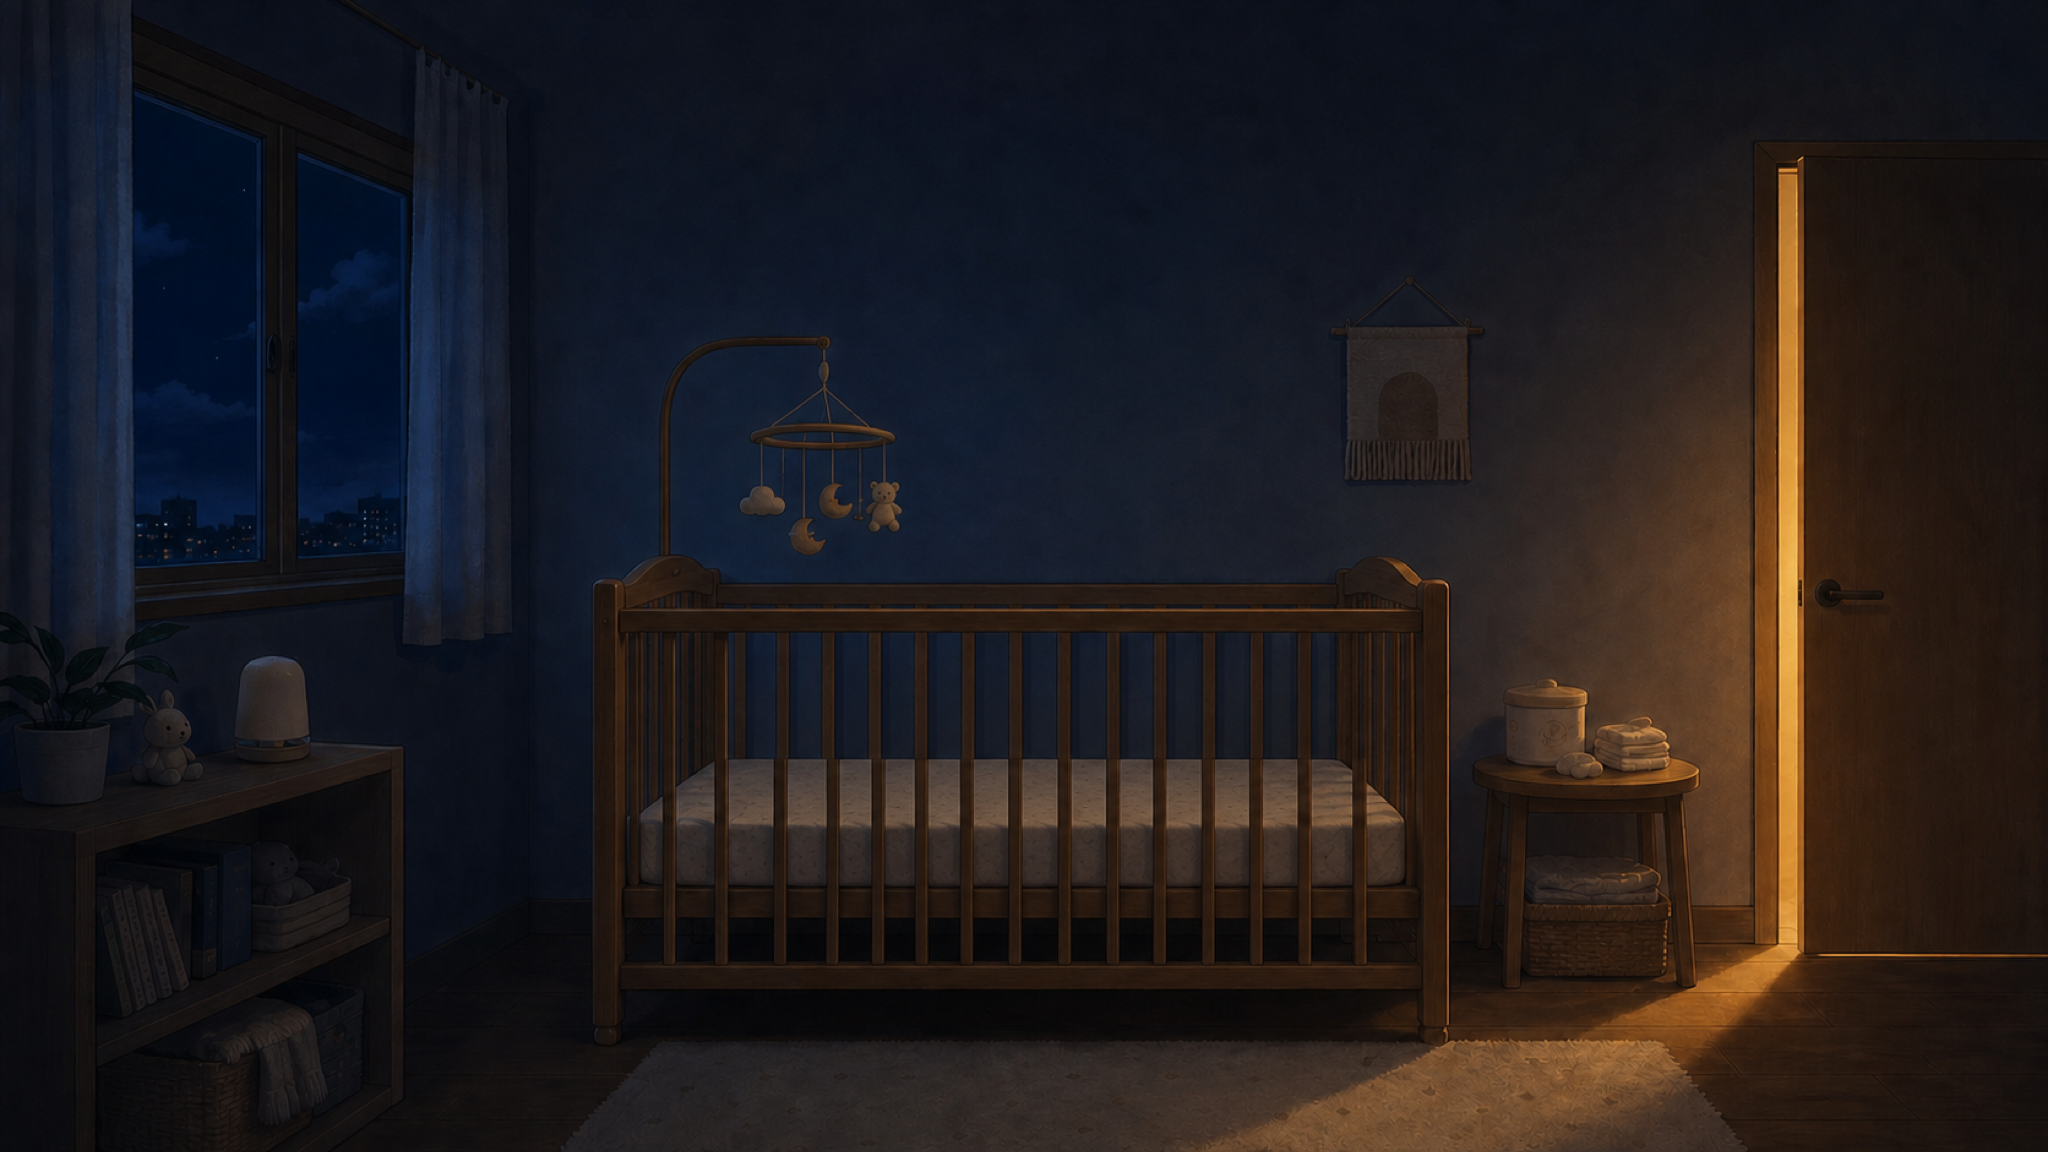
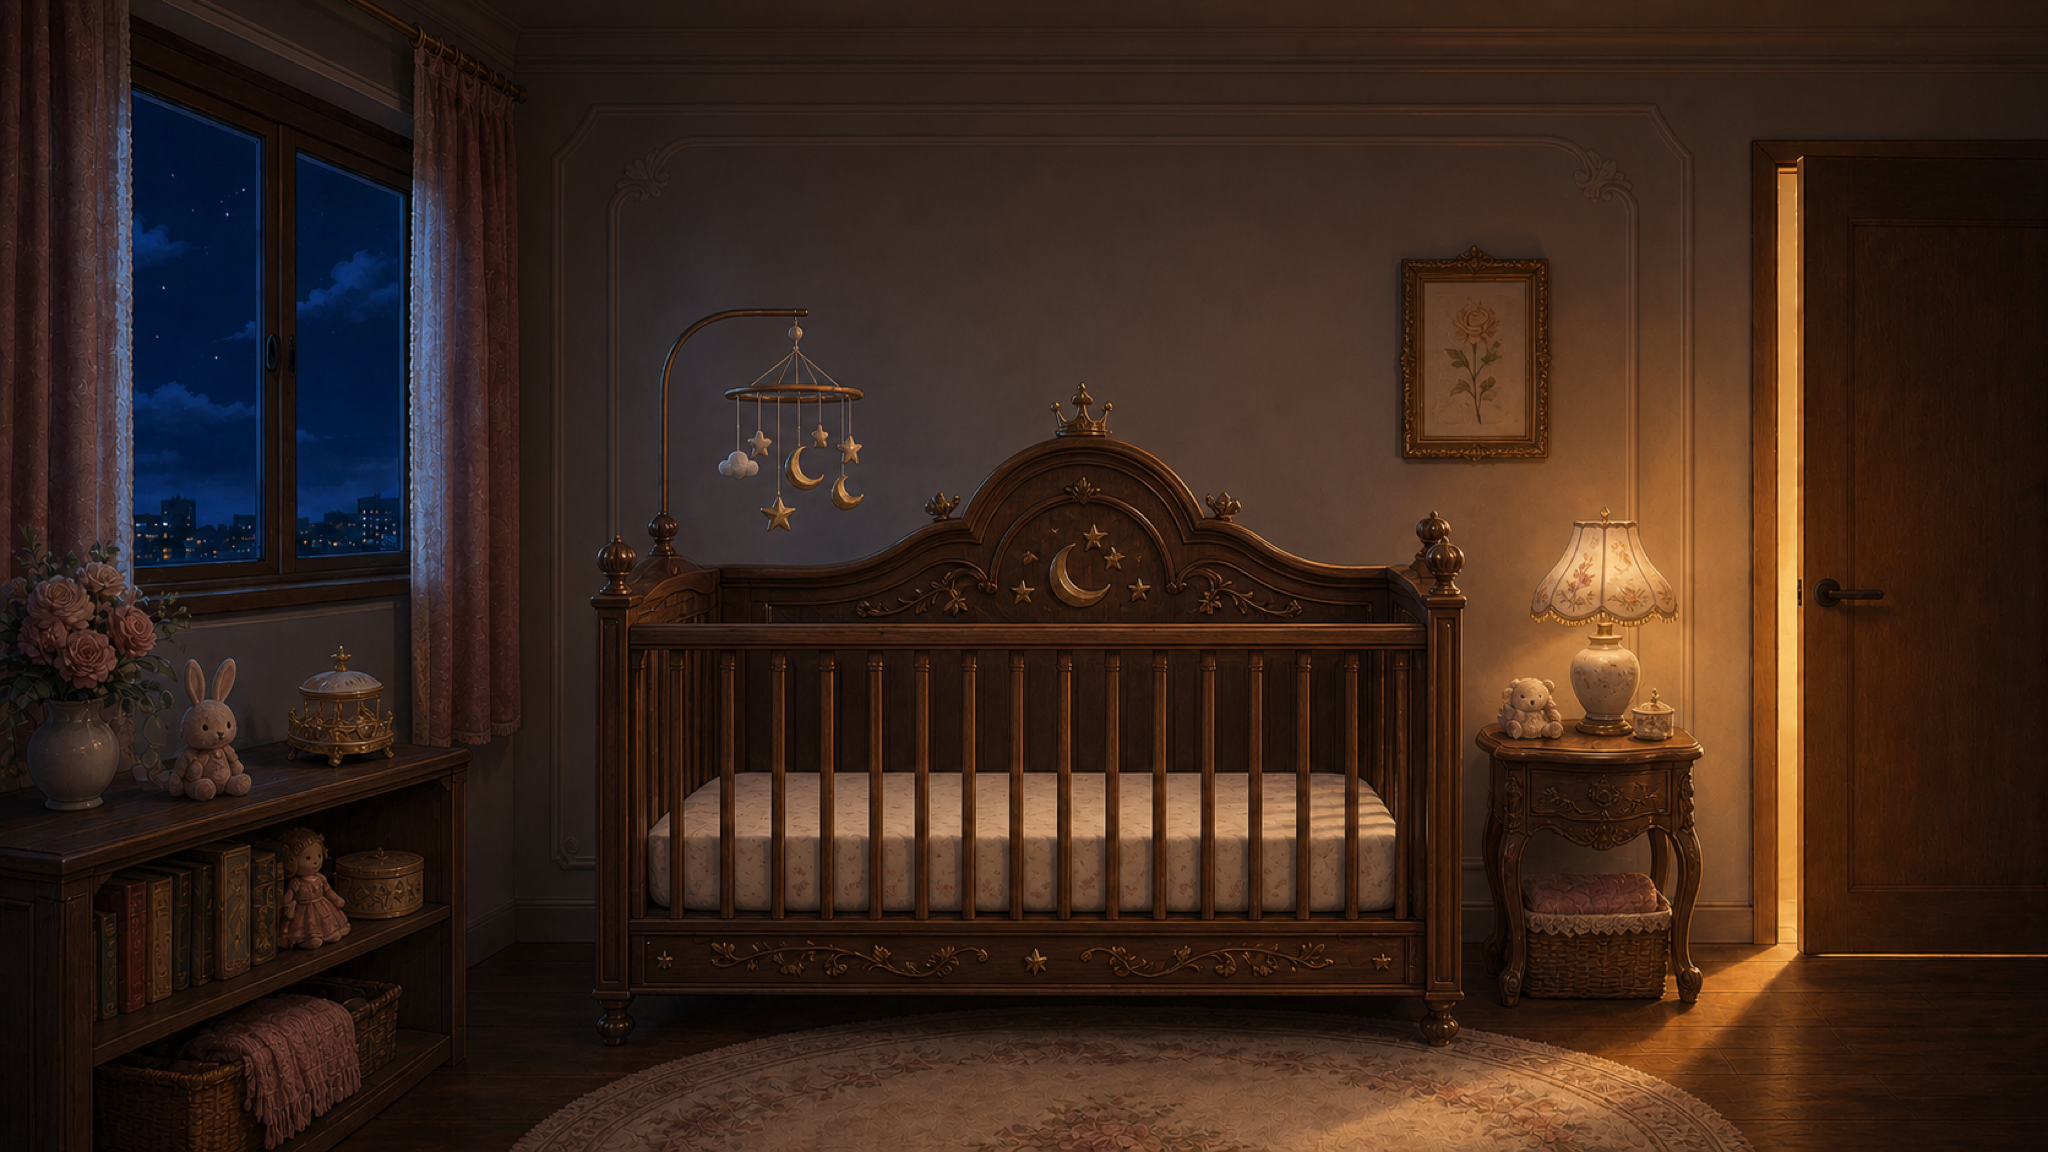
Polish princess nursery and collectible item UI

diff --git a/Assets/Scripts/App/GameBootstrap.cs b/Assets/Scripts/App/GameBootstrap.cs
@@ -45,6 +45,9 @@ namespace NotANap.App
         private GUIStyle _tabSelected;
         private Texture2D _speechBubble;
         private Texture2D _lockIcon;
+        private Texture2D _itemGlow;
+        private Texture2D _itemShadow;
+        private ItemId? _setupFocus;
 
         private System.Random _ambientRandom;
         private int _ambientFrame;
@@ -111,6 +114,8 @@ namespace NotANap.App
             _tabButton = ButtonStyle(18, new Color(0.07f, 0.11f, 0.17f, 0.68f), new Color(0.28f, 0.36f, 0.45f, 0.9f), new Color(0.82f, 0.85f, 0.88f));
             _tabSelected = ButtonStyle(18, new Color(0.78f, 0.54f, 0.23f, 0.98f), new Color(0.95f, 0.76f, 0.44f), Color.white);
             _speechBubble = RoundedTexture(new Color(0.97f, 0.94f, 0.87f, 0.98f), 14);
+            _itemGlow = RoundedTexture(new Color(1f, 0.69f, 0.27f, 0.2f), 48);
+            _itemShadow = RoundedTexture(new Color(0f, 0f, 0f, 0.44f), 28);
         }
 
         private GUIStyle LabelStyle(int size, FontStyle weight, Color color, TextAnchor align = TextAnchor.UpperLeft)
@@ -301,7 +306,7 @@ namespace NotANap.App
         {
             var vm = _flow.BuildV2Setup();
             if (_portrait) { DrawPortraitSetup(vm); return; }
-            Fill(new Rect(0, 0, LandscapeWidth, LandscapeHeight), new Color(0.015f, 0.035f, 0.065f, 0.78f));
+            Fill(new Rect(0, 0, LandscapeWidth, LandscapeHeight), new Color(0.015f, 0.035f, 0.065f, 0.46f));
             GUI.Label(new Rect(90, 64, 900, 56), $"{vm.NightLabel}  ·  밤 준비", _display);
             GUI.Label(new Rect(1450, 75, 360, 44), $"가져갈 물건  {vm.SelectedCount} / {vm.Slots}", Right(_headline));
             if (vm.IsFirstNight)
@@ -309,41 +314,133 @@ namespace NotANap.App
             else
                 GUI.Label(new Rect(92, 130, 1500, 40), $"“{vm.TemperamentHint}” · {vm.CaregiverStyleName}", _body);
 
-            const float cardW = 400f;
-            const float cardH = 270f;
+            const float displayWidth = 400f;
+            const float gap = 48f;
             for (int i = 0; i < vm.Cards.Count; i++)
             {
                 var card = vm.Cards[i];
-                int col = i % 4;
-                int row = i / 4;
-                var rect = new Rect(90 + col * 435, 340 + row * 290, cardW, cardH);
-                DrawItemCard(rect, card, vm.SelectedCount, vm.Slots);
+                var rect = new Rect(88 + i * (displayWidth + gap), 330, displayWidth, 390);
+                DrawCollectibleItem(rect, card, false);
             }
-            GUI.Label(new Rect(90, 735, 900, 34), "오늘 밤에 실제로 사용할 물건만 고르세요.", _caption);
+
+            var focused = FocusedSetupCard(vm);
+            if (focused != null)
+                DrawSetupItemDetail(new Rect(130, 748, 1120, 174), focused, false);
+            GUI.Label(new Rect(130, 930, 940, 34), "소품을 눌러 오늘 밤의 진열대에 올리세요.", _caption);
 
             var oldEnabled = GUI.enabled;
             GUI.enabled = vm.CanStart;
             string next = vm.CanStart ? "이 준비로 밤 시작하기  →" : $"물건을 {vm.Slots}개 골라주세요";
-            if (GUI.Button(new Rect(1300, 900, 520, 82), next, _button)) _flow.ConfirmV2Setup();
+            if (GUI.Button(new Rect(1300, 900, 520, 82), next, _button))
+            {
+                _audio?.PlayUi();
+                _flow.ConfirmV2Setup();
+            }
             GUI.enabled = oldEnabled;
         }
 
-        private void DrawItemCard(Rect rect, ItemCardViewModel card, int selected, int slots)
+        private void DrawCollectibleItem(Rect area, ItemCardViewModel card, bool portrait)
         {
-            Color panel = card.Selected ? new Color(0.32f, 0.23f, 0.12f, 0.98f) : new Color(0.055f, 0.09f, 0.14f, 0.96f);
-            if (card.Disabled) panel.a = 0.52f;
-            Fill(rect, panel);
-            Fill(new Rect(rect.x, rect.y, card.Selected ? 7 : 2, rect.height), card.Selected ? new Color(0.92f, 0.7f, 0.36f) : new Color(0.2f, 0.28f, 0.36f));
-            DrawItemArt(card.Id, new Rect(rect.x + 18, rect.y + 24, 104, 104));
-            GUI.Label(new Rect(rect.x + 146, rect.y + 20, rect.width - 166, 52), card.Name, _headline);
-            GUI.Label(new Rect(rect.x + 146, rect.y + 72, rect.width - 166, 122), card.Desc, _body);
-            Fill(new Rect(rect.x + 18, rect.y + rect.height - 88, rect.width - 36, 1),
-                new Color(0.45f, 0.5f, 0.56f, 0.3f));
-            GUI.Label(new Rect(rect.x + 20, rect.y + rect.height - 80, rect.width - 40, 76), $"주의  {card.Side}", _caption);
+            bool hovered = area.Contains(Event.current.mousePosition);
+            if (hovered) _setupFocus = card.Id;
+            float artSize = portrait ? 270f : 276f;
+            float lift = card.Selected
+                ? 15f + Mathf.Sin(Time.unscaledTime * 4.5f) * 3f
+                : hovered && !card.Disabled ? 9f : 0f;
+            float centerX = area.x + area.width * 0.5f;
+            var artRect = new Rect(centerX - artSize * 0.5f, area.y + 30f - lift, artSize, artSize);
+            var shadowRect = new Rect(centerX - artSize * 0.34f, area.y + 276f, artSize * 0.68f, portrait ? 34f : 28f);
+
+            if (card.Selected)
+                GUI.DrawTexture(new Rect(centerX - artSize * 0.55f, area.y + 5f - lift,
+                    artSize * 1.1f, artSize * 1.1f), _itemGlow, ScaleMode.StretchToFill, true);
+            GUI.DrawTexture(shadowRect, _itemShadow, ScaleMode.StretchToFill, true);
+
+            Color oldColor = GUI.color;
+            if (card.Disabled) GUI.color = new Color(0.62f, 0.65f, 0.69f, 0.52f);
+            else if (hovered || card.Selected) GUI.color = new Color(1.08f, 1.04f, 0.96f);
+            DrawItemArt(card.Id, artRect);
+            GUI.color = oldColor;
+
+            if (card.Selected)
+            {
+                DrawItemSparkle(area.x + 48f, area.y + 58f, portrait ? 18f : 15f);
+                DrawItemSparkle(area.xMax - 52f, area.y + 136f, portrait ? 14f : 12f);
+            }
+
+            var nameStyle = new GUIStyle(_headline)
+            {
+                alignment = TextAnchor.MiddleCenter,
+                fontSize = portrait ? 32 : 30,
+                normal = { textColor = card.Selected
+                    ? new Color(1f, 0.83f, 0.5f)
+                    : new Color(0.96f, 0.93f, 0.86f) }
+            };
+            GUI.Label(new Rect(area.x, area.y + 306, area.width, 48), card.Name, nameStyle);
+            if (card.Selected)
+            {
+                var badge = new GUIStyle(_caption)
+                {
+                    alignment = TextAnchor.MiddleCenter,
+                    normal = { textColor = new Color(1f, 0.78f, 0.36f) }
+                };
+                GUI.Label(new Rect(area.x, area.y + 352, area.width, 30), "✓ 오늘 밤에 챙김", badge);
+            }
+            else if (card.Disabled)
+                GUI.Label(new Rect(area.x, area.y + 352, area.width, 30), "선택 칸이 가득 찼어요", Centered(_caption));
+            else if (hovered)
+                GUI.Label(new Rect(area.x, area.y + 352, area.width, 30), "눌러서 챙기기", Centered(_caption));
+
             var oldEnabled = GUI.enabled;
             GUI.enabled = !card.Disabled;
-            if (GUI.Button(rect, GUIContent.none, GUIStyle.none)) _flow.ToggleV2Item(card.Id);
+            if (GUI.Button(area, GUIContent.none, GUIStyle.none))
+            {
+                _setupFocus = card.Id;
+                _audio?.PlayUi();
+                _flow.ToggleV2Item(card.Id);
+            }
             GUI.enabled = oldEnabled;
+        }
+
+        private static void DrawItemSparkle(float x, float y, float size)
+        {
+            Color color = new Color(1f, 0.76f, 0.28f, 0.92f);
+            Fill(new Rect(x - size * 0.12f, y - size, size * 0.24f, size * 2f), color);
+            Fill(new Rect(x - size, y - size * 0.12f, size * 2f, size * 0.24f), color);
+            Fill(new Rect(x - size * 0.42f, y - size * 0.42f, size * 0.84f, size * 0.84f),
+                new Color(1f, 0.9f, 0.58f, 0.82f));
+        }
+
+        private ItemCardViewModel FocusedSetupCard(SetupViewModel vm)
+        {
+            ItemCardViewModel first = null;
+            ItemCardViewModel selected = null;
+            foreach (var card in vm.Cards)
+            {
+                if (first == null) first = card;
+                if (card.Selected && selected == null) selected = card;
+                if (_setupFocus.HasValue && card.Id == _setupFocus.Value) return card;
+            }
+            return selected ?? first;
+        }
+
+        private void DrawSetupItemDetail(Rect rect, ItemCardViewModel card, bool portrait)
+        {
+            Fill(rect, new Color(0.025f, 0.05f, 0.08f, 0.78f));
+            Fill(new Rect(rect.x, rect.y, 6f, rect.height), card.Selected
+                ? new Color(1f, 0.72f, 0.32f)
+                : new Color(0.48f, 0.57f, 0.66f));
+            float inset = portrait ? 34f : 42f;
+            GUI.Label(new Rect(rect.x + inset, rect.y + 18, rect.width - inset * 2f, 42),
+                card.Selected ? $"{card.Name} · 오늘 밤에 챙겼어요" : card.Name, _headline);
+            GUI.Label(new Rect(rect.x + inset, rect.y + 68, rect.width - inset * 2f, 50),
+                card.Desc, _body);
+            var warning = new GUIStyle(_caption)
+            {
+                normal = { textColor = new Color(0.94f, 0.76f, 0.52f) }
+            };
+            GUI.Label(new Rect(rect.x + inset, rect.y + 124, rect.width - inset * 2f, rect.height - 128),
+                $"기억할 점 · {card.Side}", warning);
         }
 
         private void LoadItemArt(ItemId id, string resourceName)
@@ -1153,14 +1250,14 @@ namespace NotANap.App
         {
             if (portrait)
             {
-                GUI.Label(new Rect(48, 145, 984, 35), "나는 보통 · 정답 없는 보호자 성향", _caption);
-                DrawCareStyleButton(new Rect(48, 188, 305, 56), "바로 반응", CaregiverStyle.Responsive, vm.CaregiverStyle);
-                DrawCareStyleButton(new Rect(388, 188, 305, 56), "잠시 관찰", CaregiverStyle.Observant, vm.CaregiverStyle);
-                DrawCareStyleButton(new Rect(727, 188, 305, 56), "차례로 확인", CaregiverStyle.Methodical, vm.CaregiverStyle);
-                GUI.Label(new Rect(48, 258, 984, 35), "아기 반응 경향 · 의학적 진단이 아닙니다", _caption);
-                DrawTemperamentButton(new Rect(48, 300, 305, 50), "반응이 잔잔함", Temperament.Soft, vm);
-                DrawTemperamentButton(new Rect(388, 300, 305, 50), "자극에 민감", Temperament.Sensitive, vm);
-                DrawTemperamentButton(new Rect(727, 300, 305, 50), "배고픔 신호 빠름", Temperament.Hungry, vm);
+                GUI.Label(new Rect(48, 145, 984, 42), "나는 보통 · 정답 없는 보호자 성향", _caption);
+                DrawCareStyleButton(new Rect(48, 190, 305, 56), "바로 반응", CaregiverStyle.Responsive, vm.CaregiverStyle);
+                DrawCareStyleButton(new Rect(388, 190, 305, 56), "잠시 관찰", CaregiverStyle.Observant, vm.CaregiverStyle);
+                DrawCareStyleButton(new Rect(727, 190, 305, 56), "차례로 확인", CaregiverStyle.Methodical, vm.CaregiverStyle);
+                GUI.Label(new Rect(48, 252, 984, 42), "아기 반응 경향 · 의학적 진단이 아닙니다", _caption);
+                DrawTemperamentButton(new Rect(48, 298, 305, 50), "반응이 잔잔함", Temperament.Soft, vm);
+                DrawTemperamentButton(new Rect(388, 298, 305, 50), "자극에 민감", Temperament.Sensitive, vm);
+                DrawTemperamentButton(new Rect(727, 298, 305, 50), "배고픔 신호 빠름", Temperament.Hungry, vm);
                 return;
             }
 
@@ -1194,36 +1291,31 @@ namespace NotANap.App
 
         private void DrawPortraitSetup(SetupViewModel vm)
         {
-            Fill(new Rect(0, 0, PortraitWidth, PortraitHeight), new Color(0.015f, 0.035f, 0.065f, 0.86f));
+            Fill(new Rect(0, 0, PortraitWidth, PortraitHeight), new Color(0.015f, 0.035f, 0.065f, 0.52f));
             GUI.Label(new Rect(48, 55, 750, 74), $"{vm.NightLabel} · 밤 준비", _display);
             if (vm.IsFirstNight) DrawCarePairSetup(vm, true);
             else GUI.Label(new Rect(48, 145, 984, 100), $"“{vm.TemperamentHint}” · {vm.CaregiverStyleName}", _body);
             GUI.Label(new Rect(48, 365, 984, 50), $"가져갈 물건  {vm.SelectedCount} / {vm.Slots}", _headline);
-            const float cardW = 474f;
-            const float cardH = 420f;
             for (int i = 0; i < vm.Cards.Count; i++)
             {
                 var card = vm.Cards[i];
                 int col = i % 2;
                 int row = i / 2;
-                var rect = new Rect(48 + col * 510, 425 + row * 405, cardW, 380);
-                Color panel = card.Selected ? new Color(0.32f, 0.23f, 0.12f, 0.98f) : new Color(0.055f, 0.09f, 0.14f, 0.96f);
-                if (card.Disabled) panel.a = 0.52f;
-                Fill(rect, panel);
-                Fill(new Rect(rect.x, rect.y, card.Selected ? 9 : 3, rect.height), card.Selected ? new Color(0.92f, 0.7f, 0.36f) : new Color(0.2f, 0.28f, 0.36f));
-                DrawItemArt(card.Id, new Rect(rect.x + 24, rect.y + 28, 132, 132));
-                GUI.Label(new Rect(rect.x + 176, rect.y + 30, 274, 66), card.Name, _headline);
-                GUI.Label(new Rect(rect.x + 176, rect.y + 108, 274, 142), card.Desc, _body);
-                GUI.Label(new Rect(rect.x + 24, rect.y + 270, 426, 90), $"주의 · {card.Side}", _caption);
-                var oldEnabled = GUI.enabled;
-                GUI.enabled = !card.Disabled;
-                if (GUI.Button(rect, GUIContent.none, GUIStyle.none)) _flow.ToggleV2Item(card.Id);
-                GUI.enabled = oldEnabled;
+                var rect = new Rect(48 + col * 510, 425 + row * 390, 474, 370);
+                DrawCollectibleItem(rect, card, true);
             }
-            GUI.Label(new Rect(48, 1250, 984, 55), "오늘 밤에 실제로 사용할 물건만 고르세요.", _caption);
+
+            var focused = FocusedSetupCard(vm);
+            if (focused != null)
+                DrawSetupItemDetail(new Rect(48, 1218, 984, 230), focused, true);
+            GUI.Label(new Rect(48, 1470, 984, 55), "소품을 눌러 오늘 밤의 진열대에 올리세요.", _caption);
             var previous = GUI.enabled;
             GUI.enabled = vm.CanStart;
-            if (GUI.Button(new Rect(100, 1370, 880, 120), vm.CanStart ? "밤 시작하기 →" : $"물건을 {vm.Slots}개 골라주세요", _button)) _flow.ConfirmV2Setup();
+            if (GUI.Button(new Rect(100, 1710, 880, 120), vm.CanStart ? "밤 시작하기 →" : $"물건을 {vm.Slots}개 골라주세요", _button))
+            {
+                _audio?.PlayUi();
+                _flow.ConfirmV2Setup();
+            }
             GUI.enabled = previous;
         }
 

diff --git a/docs/assets.md b/docs/assets.md
@@ -4,7 +4,7 @@
 |---|---|---|---|---|
 | `Assets/Resources/Fonts/NotoSansKR.ttf` | 한국어 UI 폰트 | Google Fonts, Noto Sans KR | SIL Open Font License 1.1 | 원문은 같은 폴더의 `OFL.txt` |
 | `Reference/nursery-night-original.png` | 최초 16:9 밤 침실 배경 보관본 | OpenAI 내장 이미지 생성 도구로 2026-07-21 생성 | 프로젝트 사용을 위한 사용자 소유 생성물 | 빌드 중복 포함을 막기 위해 Unity `Resources` 밖에 보관 |
-| `Assets/Resources/Art/nursery-night-empty.png` | 캐릭터 분리용 빈 침실 배경 | 기존 생성 배경을 OpenAI 내장 이미지 생성 도구로 편집 | 프로젝트 사용을 위한 사용자 소유 생성물 | 아기·베개·느슨한 이불 제거, 빈 매트리스 복원 |
+| `Assets/Resources/Art/nursery-night-empty.png` | 캐릭터 분리용 공주풍 빈 침실 배경 | 기존 생성 배경을 OpenAI 내장 이미지 생성 도구로 2026-07-26 재편집 | 프로젝트 사용을 위한 사용자 소유 생성물 | 고목 월넛 조각 침대·달과 별 장식·달빛/문틈/스탠드 3점 조명, 아기·베개·느슨한 이불 없는 빈 매트리스 |
 | `Assets/Resources/Art/Baby/*.png` | 아기 상태 캐릭터 12종 | OpenAI 내장 이미지 생성 도구로 2026-07-21 생성 | 프로젝트 사용을 위한 사용자 소유 생성물 | 동일한 동양 아기, 부드러운 큰 웨이브와 C자 애교머리, 크로마키 제거 투명 PNG |
 | `Assets/Resources/Art/Baby/Animated/*.png` | 아기 프레임 애니메이션 12종 | 기존 아기 캐릭터를 OpenAI 내장 이미지 생성 도구로 확장 | 프로젝트 사용을 위한 사용자 소유 생성물 | 깨어 있음·보챔·수면 각 4프레임, 눈·입·손발 동작 포함 |
 | `Assets/Resources/Art/Items/*.png` | 밤 준비·플레이 HUD 아이템 4종 | OpenAI 내장 이미지 생성 도구로 2026-07-26 생성 | 프로젝트 사용을 위한 사용자 소유 생성물 | 아기띠·쪽쪽이·백색소음기·베이비 모니터, 크로마키 제거 투명 PNG |
@@ -12,9 +12,11 @@
 
 ## `nursery-night.png` 생성 프롬프트 요약
 
-조용한 한국 아파트의 밤 침실, 중앙의 아기 침대와 잠든 아기, 오른쪽 문틈의 따뜻한 불빛,
-왼쪽 창문의 짙은 남색 새벽 하늘을 성숙한 그림책풍 2D 게임 배경으로 제작했다. 16:9 HUD가
-겹쳐질 수 있도록 상단과 하단 모서리에 어두운 여백을 두고 텍스트·로고·UI 요소는 제외했다.
+조용한 밤 침실의 기존 16:9 구도와 좌우 창문·문 위치를 보존하고, 중앙 침대를 달과 별 조각,
+황동 포인트, 깊은 나뭇결이 보이는 고풍스러운 고목 월넛 크립으로 재편집했다. 왼쪽의 짙은
+남색 달빛, 오른쪽 문틈의 앰버 조명, 침대 옆 스탠드의 따뜻한 실내광을 함께 사용했다.
+별도 아기 스프라이트와 HUD가 겹칠 수 있도록 매트리스와 중앙 공간을 비우고, 안전하지 않은
+캐노피·베개·느슨한 침구와 텍스트·로고·UI 요소는 제외했다.
 
 ## 아기 캐릭터 생성 프롬프트 요약
 
